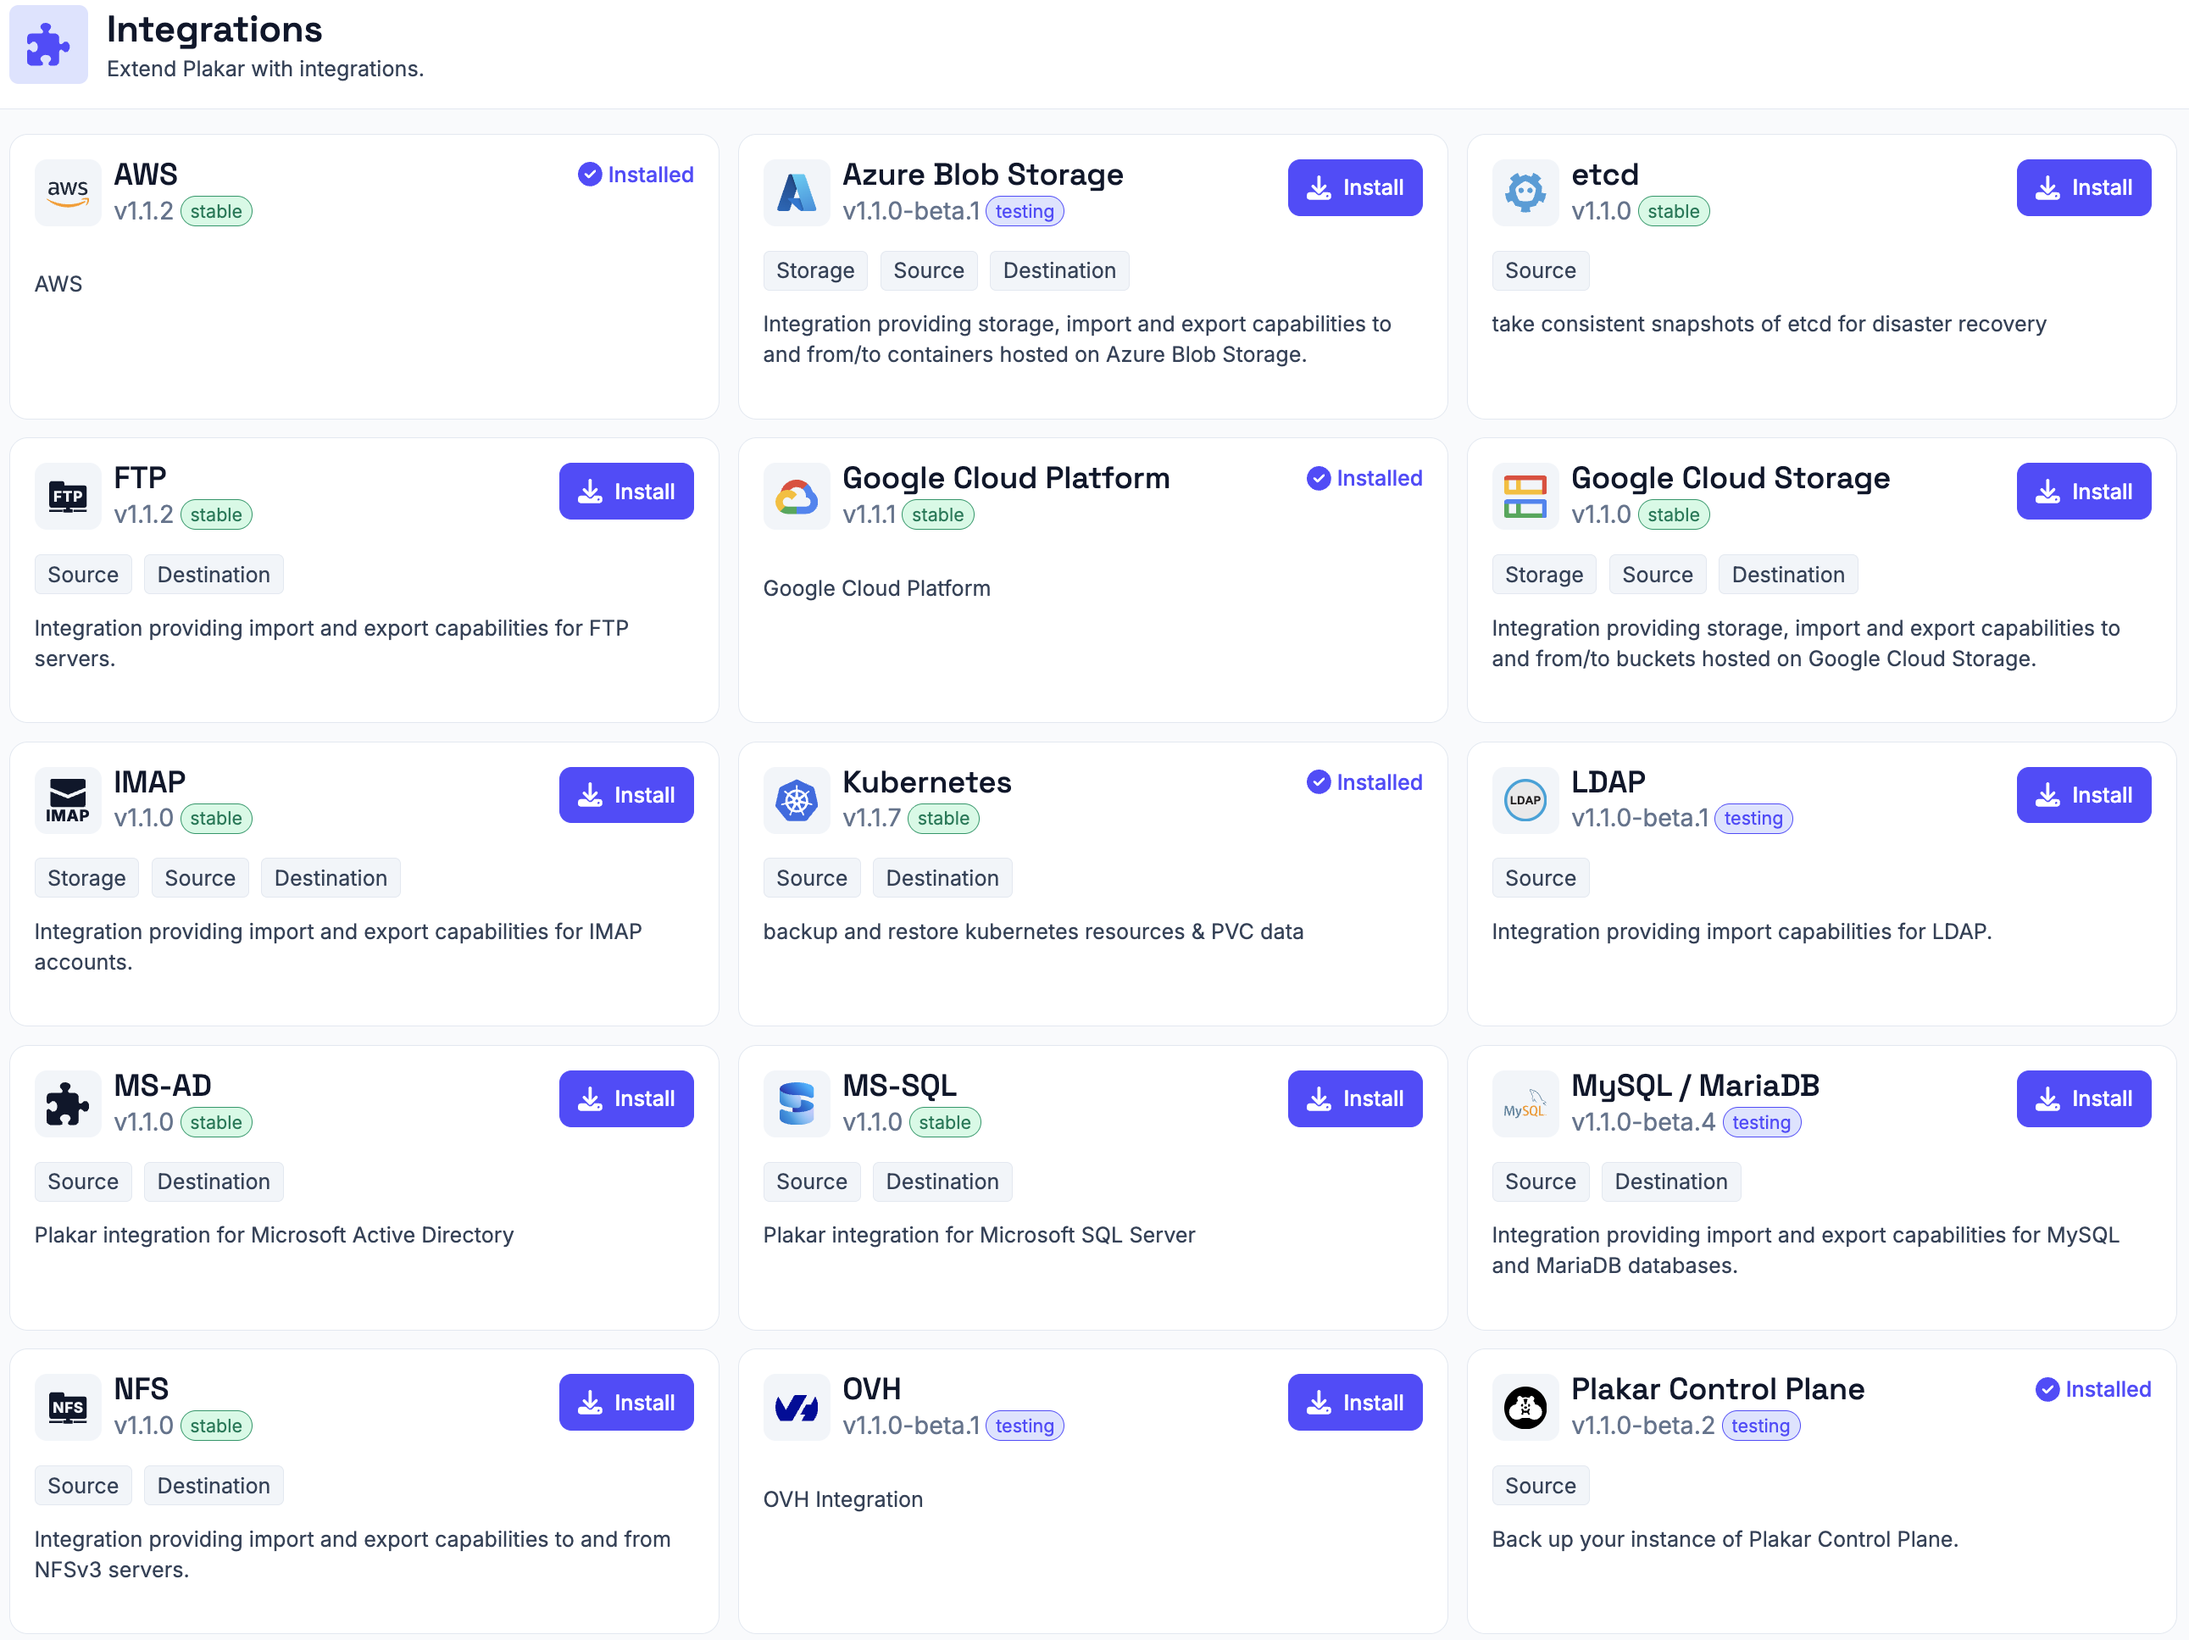
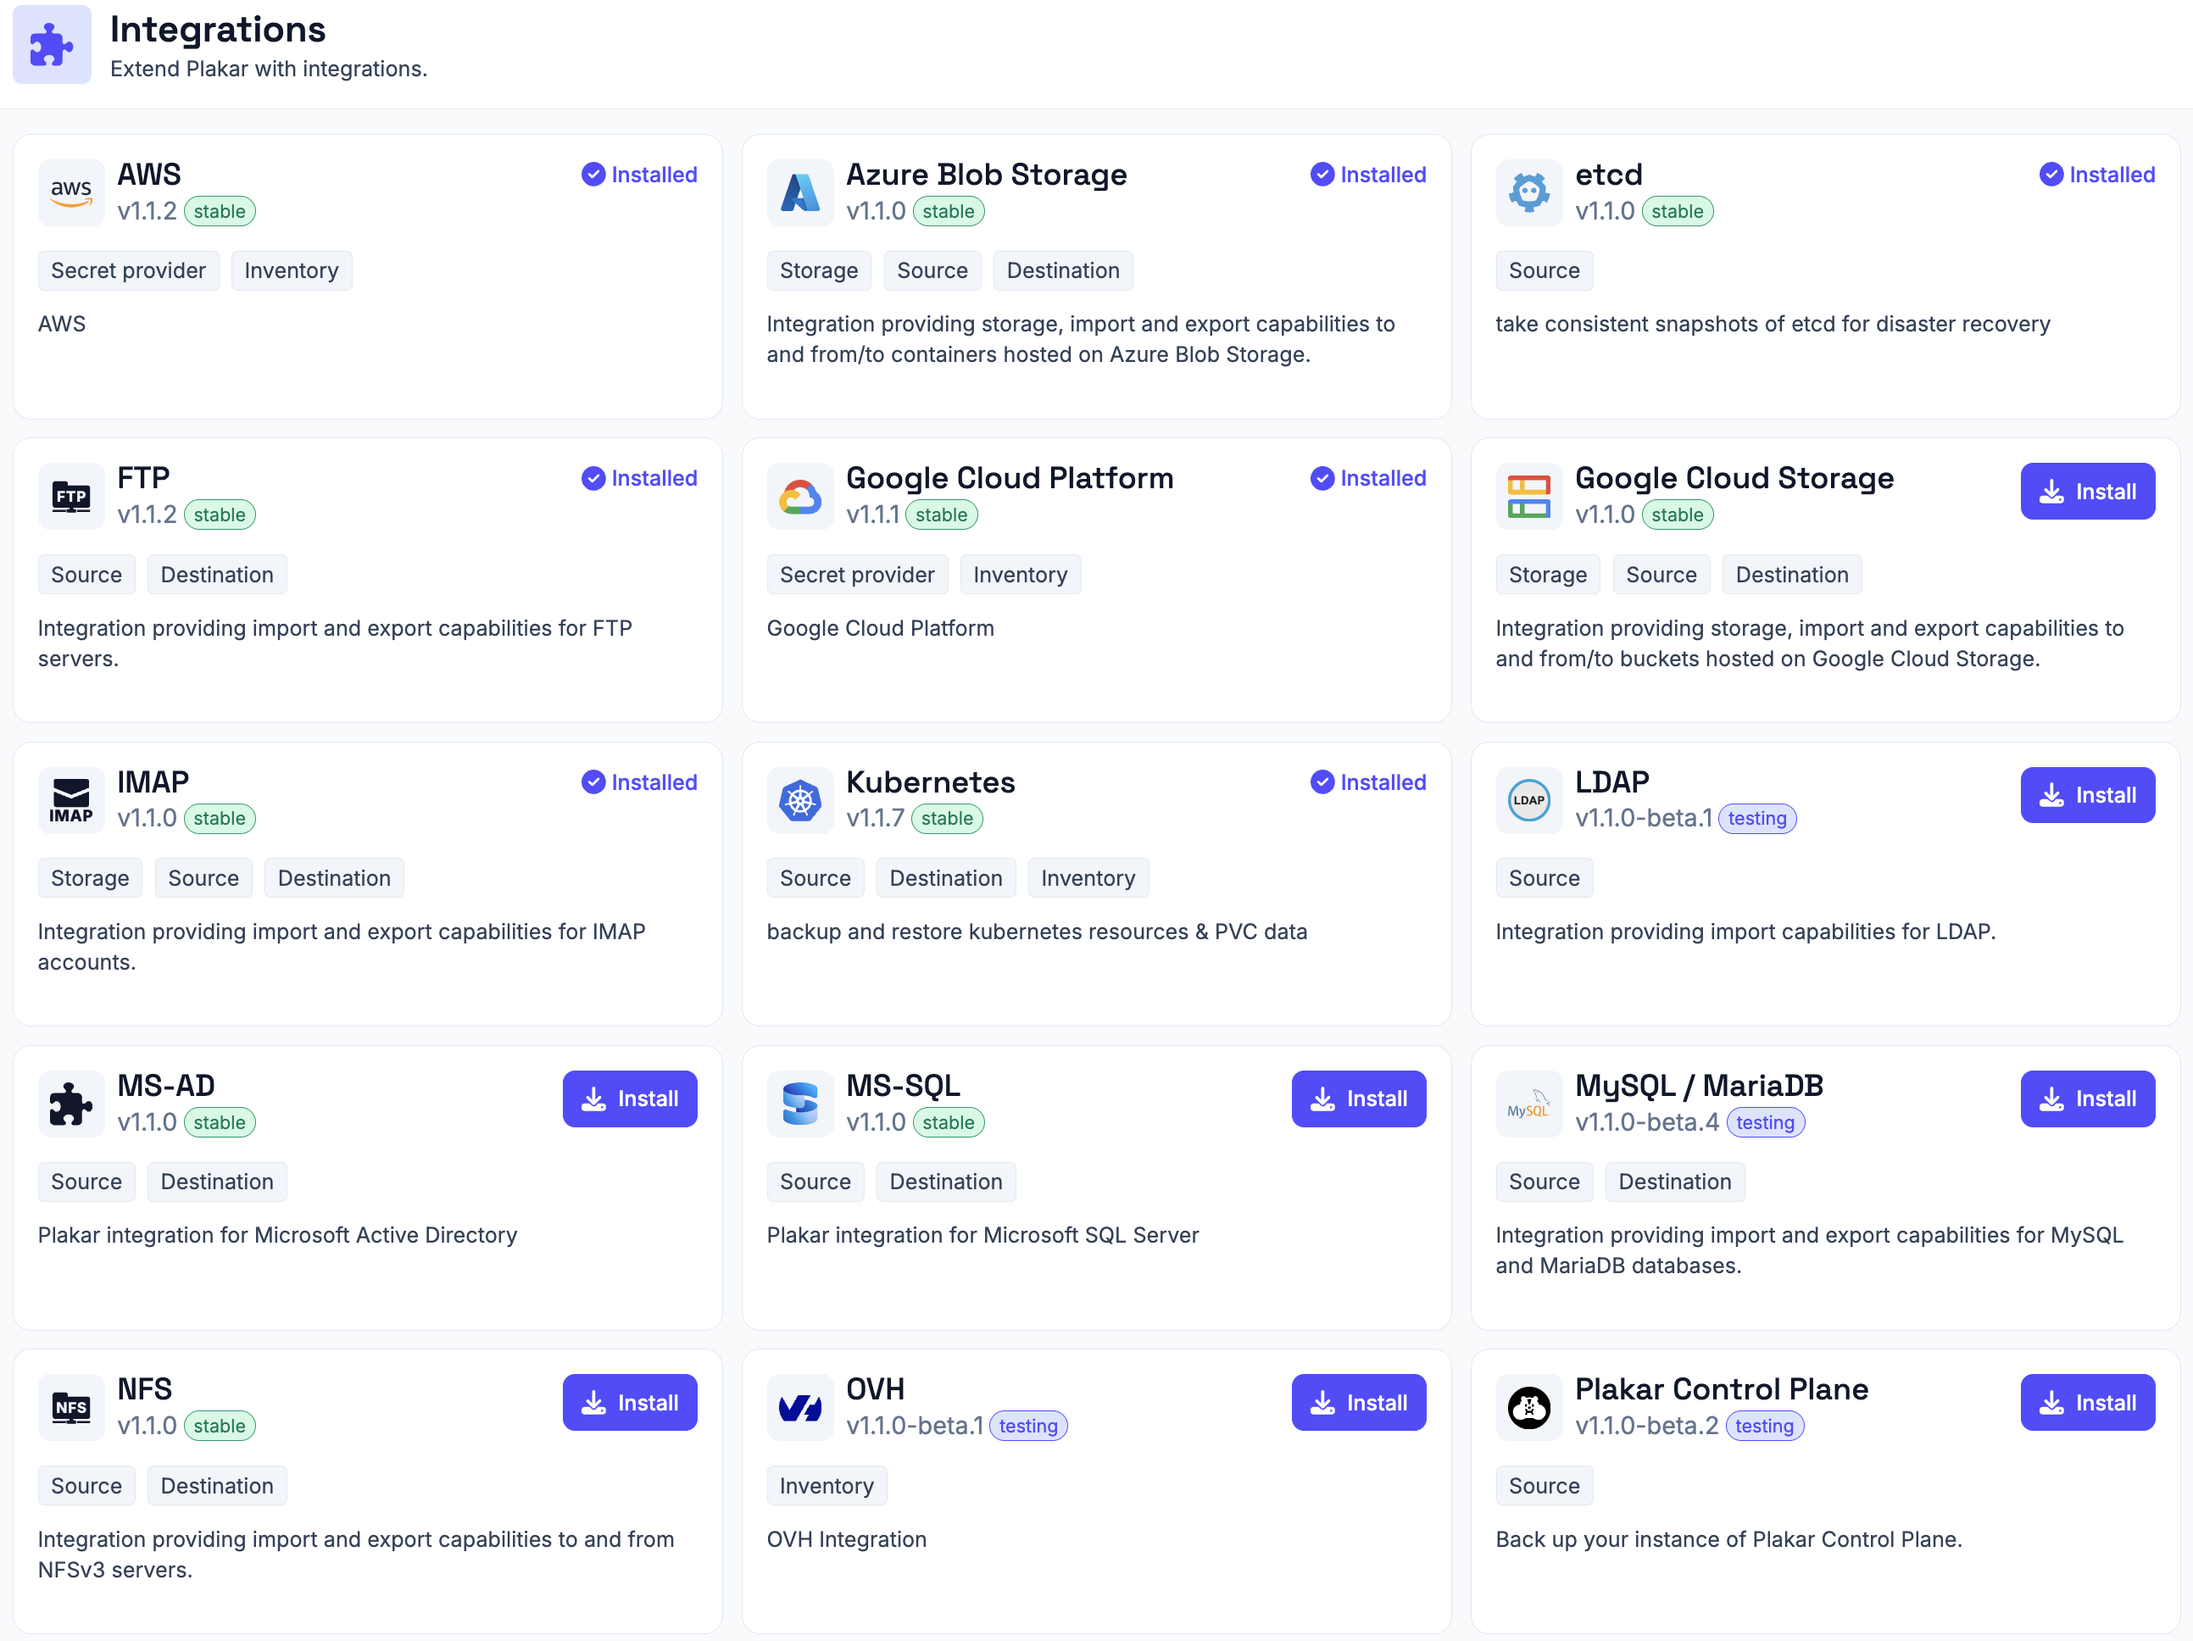
update integrations & inventories docs
- inventories are now delivered as integrations

diff --git a/content/docs/control-plane/apps/integrations.md b/content/docs/control-plane/apps/integrations.md
@@ -2,28 +2,39 @@
 title: "Managing Integrations"
 date: "2026-07-27T00:00:00Z"
 weight: 4
-summary: "Managing your integrations in Plakar Control Plane."
+summary: "Managing integrations in Plakar Control Plane."
 ---
 
 # Managing Integrations
 
 Integrations extend Plakar Control Plane with support for external services,
-platforms, and storage systems. Before an integration can be used, it must be
-installed from the **Integrations** page.
+platforms, storage systems, and inventory providers. Before an integration can
+be used, it must be installed from the **Integrations** page.
 
-Once installed, the integration becomes available when configuring compatible
-apps. Plakar Control Plane automatically matches integrations to resources based
-on their `class` and `subclass`. If multiple compatible integrations are
-installed, you can choose which one an app should use during configuration.
+Installed integrations become available automatically wherever they are
+supported. For example:
+
+- Inventory integrations become available when creating a new inventory.
+- App integrations become available when configuring compatible apps.
+
+Plakar Control Plane automatically matches integrations to resources based on
+their `class` and `subclass`. If multiple compatible integrations are installed,
+you can choose which one an app should use during configuration.
 
 ![Integrations page](../images/integrations.png)
 
 ## Installing an integration
 
 Navigate to **Integrations**, locate the integration you want to use, and click
-**Install**. Once the installation completes, the integration becomes available
-when configuring compatible apps. See [Apps](../apps) documentations for more
-information about how apps use integrations.
+**Install**. Once installation completes:
+
+- Inventory integrations become available in the **Add inventory** dialog.
+- App integrations become available when configuring compatible apps. See
+  [Apps](../apps) for more information.
+
+If you open the **Add inventory** dialog before installing an inventory
+provider, providers that are not yet installed display an **Install** button.
+Providers that are already installed can be selected immediately.
 
 ## Updating an integration
 

diff --git a/content/docs/control-plane/infrastructure/inventories/_index.md b/content/docs/control-plane/infrastructure/inventories/_index.md
@@ -15,17 +15,26 @@ resources available for management. Resources are the individual entities you
 can back up, use as storage, or restore to, for example, EC2 instances, S3
 buckets, and their equivalents across other supported cloud providers.
 
+Inventory providers are delivered as integrations. Before creating an inventory,
+install the required provider from the **Integrations** page or directly from
+the **Add inventory** dialog. The dialog displays providers that are already
+installed alongside providers that can be installed and used immediately.
+
+![Creating a new inventory](./images/create-inventory.png)
+
 Once an inventory is connected, you can attach apps to each resource. Plakar
 Control Plane supports three app types:
 
-- **Source** - the resource being backed up
-- **Store** - where backups are stored
-- **Destination** - where data is restored to
+- **Source**: the resource being backed up
+- **Store**: where backups are stored
+- **Destination**: where data is restored to
 
 ## Managed inventories
 
 Managed inventories connect to a provider using credentials. Plakar Control
 Plane then automatically discovers and classifies resources in your account.
+
+Each managed inventory provider must be installed before it can be created.
 
 For example, in an AWS inventory:
 
@@ -39,6 +48,7 @@ Managed inventories are supported for:
 - Scaleway
 - Google Cloud
 - VMware
+- Kubernetes
 
 ## Self-managed inventories
 
